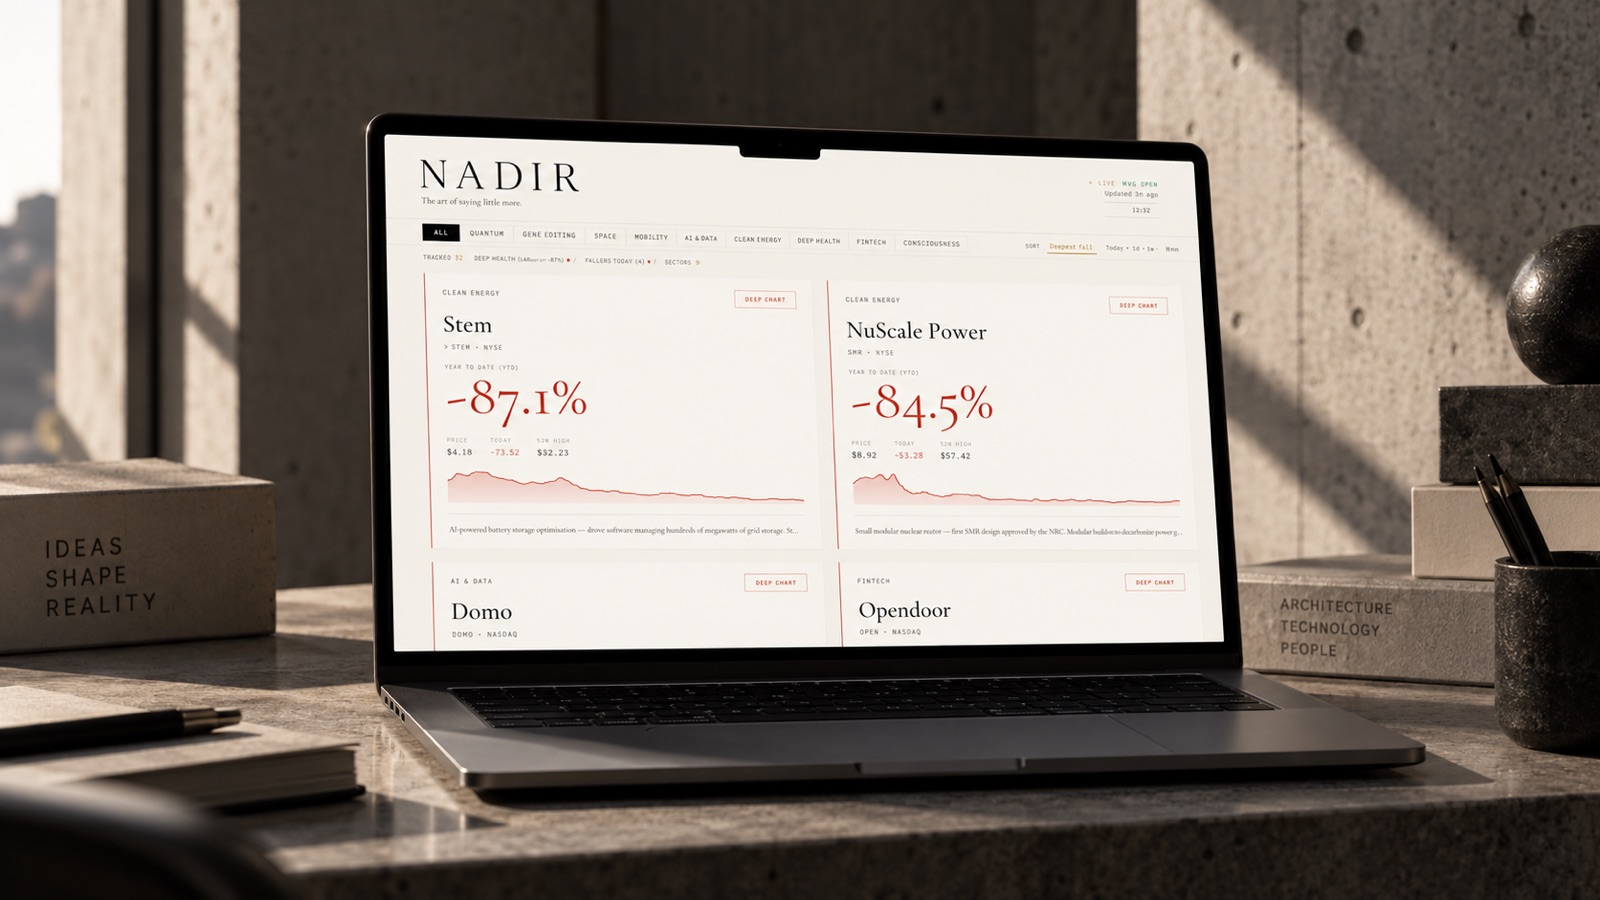
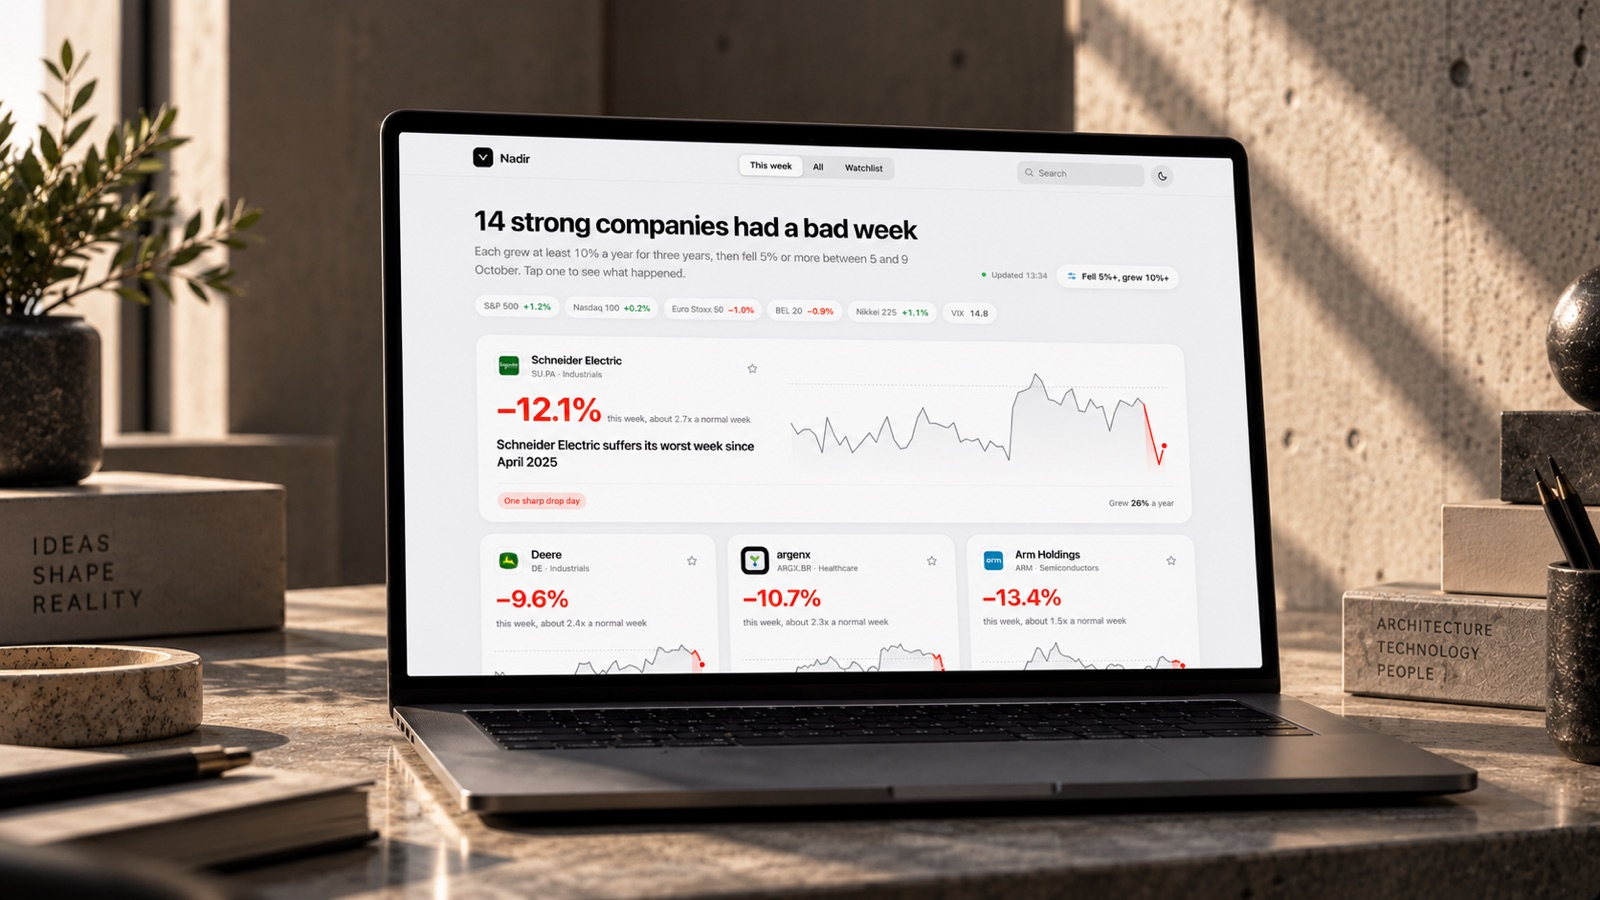
Nadir V2: new cover, screenshots and case copy

diff --git a/work-nadir.html b/work-nadir.html
@@ -3,7 +3,7 @@
   <head>
     <meta charset="utf-8" />
     <title>NADIR | Jasper Impens</title>
-    <meta name="description" content="A live dashboard that tracks growth stocks by how far they have fallen from their 52-week high. Nine sectors, sorted by the deepest fall, told with calm typography instead of ticker noise." />
+    <meta name="description" content="A daily check on strong companies that just had a bad week. NADIR judges each stock on its record before the fall, measures the drop against its normal week, and explains in plain words what happened." />
     <meta content="width=device-width, initial-scale=1" name="viewport" />
     <link rel="icon" type="image/png" href="assets/images/favicon.png" />
     <link rel="apple-touch-icon" href="assets/images/apple-touch-icon.png" />
@@ -31,23 +31,23 @@
               <a class="pj-back" href="work.html"><svg width="14" height="14" viewBox="0 0 20 20" fill="none" xmlns="http://www.w3.org/2000/svg" aria-hidden="true"><path d="M8.125 14.375L3.75 9.93818L8.125 5.625M3.75 9.93818H17.5" stroke="currentColor" stroke-width="1.5"></path></svg><span class="txt txt-font-mono txt-12">All work</span></a>
               <div>
                 <h1 class="pj-h1" id="pj-title"><span class="wk-h1-line"><span>NADIR</span></span></h1>
-                <p class="pj-quote">&ldquo;The art of buying fallen giants.&rdquo;</p>
+                <p class="pj-quote">&ldquo;Good companies, bad weeks.&rdquo;</p>
               </div>
             </div>
             <div class="pj-hero-facts">
-              <dl class="pj-facts"><div class="pj-fact"><dt class="txt txt-font-mono txt-12">Type</dt><dd>Platform</dd></div><div class="pj-fact"><dt class="txt txt-font-mono txt-12">Sector</dt><dd>Stock markets</dd></div><div class="pj-fact"><dt class="txt txt-font-mono txt-12">Built with</dt><dd>HTML, CSS and JavaScript</dd></div><div class="pj-fact"><dt class="txt txt-font-mono txt-12">Role</dt><dd>Design and development</dd></div></dl>
+              <dl class="pj-facts"><div class="pj-fact"><dt class="txt txt-font-mono txt-12">Type</dt><dd>Platform</dd></div><div class="pj-fact"><dt class="txt txt-font-mono txt-12">Sector</dt><dd>Stock markets</dd></div><div class="pj-fact"><dt class="txt txt-font-mono txt-12">Built with</dt><dd>HTML, CSS, JavaScript and Node</dd></div><div class="pj-fact"><dt class="txt txt-font-mono txt-12">Role</dt><dd>Design and development</dd></div></dl>
               <a class="pj-visit" href="https://nadirstocks.netlify.app/" target="_blank" rel="noopener"><span>Visit the live site</span><span class="pj-visit-ic" aria-hidden="true"><svg width="100%" viewBox="0 0 20 20" fill="none" xmlns="http://www.w3.org/2000/svg" aria-hidden="true"><path d="M11.875 14.375L16.25 9.93818L11.875 5.625M16.25 9.93818H2.5" stroke="currentColor" stroke-width="1.5"></path></svg></span></a>
             </div>
           </section>
 
-          <figure class="pj-cover"><img src="assets/work/cover-nadir.jpg" alt="NADIR stock dashboard shown on a laptop in a concrete studio" /></figure>
+          <figure class="pj-cover"><img src="assets/work/cover-nadir.jpg" alt="NADIR dashboard on a laptop in a sunlit concrete studio" /></figure>
 
-          <section class="pj-summary" aria-label="Overview"><p>A live dashboard that tracks growth stocks by how far they have fallen from their 52-week high. Nine sectors, sorted by the deepest fall, told with calm typography instead of ticker noise.</p></section>
+          <section class="pj-summary" aria-label="Overview"><p>A daily check on strong companies that just had a bad week. NADIR judges each stock on its record before the fall, measures the drop against its normal week, and explains in plain words what happened.</p></section>
 
-          <section class="pj-story" aria-label="The project"><div class="pj-story-row"><h2 class="pj-story-h">Challenge</h2><p class="pj-story-p">Every investor knows the question: is this stock simply cheap, or did it fall for a reason? NADIR had to follow dozens of stocks continuously on their distance from the 52-week high, without drowning the user in raw tickers.</p></div><div class="pj-story-row"><h2 class="pj-story-h">Approach</h2><p class="pj-story-p">Live price data grouped by sector: quantum computing, gene editing, space, mobility, AI and data, clean energy, deep health, fintech and semiconductors, sorted by the deepest fall. Every card shows the price, today&#x27;s change and a sparkline of the past year. A detail panel adds a full price chart, the 52-week range and the investment thesis behind each company.</p></div><div class="pj-story-row"><h2 class="pj-story-h">Result</h2><p class="pj-story-p">A quiet, typographic dashboard, not a wall of tickers, that shows at a glance which fallen giants are worth a closer look.</p></div></section>
+          <section class="pj-story" aria-label="The project"><div class="pj-story-row"><h2 class="pj-story-h">Challenge</h2><p class="pj-story-p">Most screeners rank stocks by daily losers or by distance from a high, so a cheap stock and a broken one look the same. The first NADIR also hid everything behind a loading screen, and people left before the data arrived. The new version had to answer three things in under a minute: what fell, how good was it before, and why did it fall.</p></div><div class="pj-story-row"><h2 class="pj-story-h">Approach</h2><p class="pj-story-p">Every stock is judged on its three-year record, frozen before the fall, and the drop is measured against its own normal weekly swing. Both halves feed one Nadir score, so a stock needs a strong record and a real break to rank. The front page reads like a sentence (&ldquo;14 strong companies had a bad week&rdquo;), with one card per company: logo, the fall, a six-month chart with the week in red, and the likely cause. A company sheet adds charts from one week to five years, the story day by day, what happened after earlier falls like this one, and the news from that week.</p></div><div class="pj-story-row"><h2 class="pj-story-h">Result</h2><p class="pj-story-p">A clean, light interface that opens instantly. A small Node server fetches all 196 stocks in about three seconds and streams them in, so the page is never blank: cards fill in as prices arrive. Filters, search, a watchlist, dark mode and keyboard shortcuts make it a quick daily ritual instead of a wall of tickers.</p></div></section>
 
         <section class="pj-shots" aria-label="Screens">
-          <ul class="pj-shots-grid" role="list" data-count="4"><li class="pj-shot"><button type="button" class="pj-shot-btn" data-pj-open aria-label="Enlarge image: NADIR dashboard in dark mode, stocks sorted by deepest fall"><img src="assets/cases/nadir/gallery-dashboard.jpg" alt="NADIR dashboard in dark mode, stocks sorted by deepest fall" loading="lazy" /></button></li><li class="pj-shot"><button type="button" class="pj-shot-btn" data-pj-open aria-label="Enlarge image: NADIR detail panel with a one-year price chart and the 52-week range"><img src="assets/cases/nadir/gallery-detail.jpg" alt="NADIR detail panel with a one-year price chart and the 52-week range" loading="lazy" /></button></li><li class="pj-shot"><button type="button" class="pj-shot-btn" data-pj-open aria-label="Enlarge image: NADIR filtered on the semiconductors sector"><img src="assets/cases/nadir/gallery-sector.jpg" alt="NADIR filtered on the semiconductors sector" loading="lazy" /></button></li><li class="pj-shot"><button type="button" class="pj-shot-btn" data-pj-open aria-label="Enlarge image: NADIR dashboard overview"><img src="assets/cases/nadir/screen-overview.jpg" alt="NADIR dashboard overview" loading="lazy" /></button></li></ul>
+          <ul class="pj-shots-grid" role="list" data-count="4"><li class="pj-shot"><button type="button" class="pj-shot-btn" data-pj-open aria-label="Enlarge image: NADIR front page: fourteen strong companies that had a bad week, led by a featured pick"><img src="assets/cases/nadir/v2-dashboard.jpg" alt="NADIR front page: fourteen strong companies that had a bad week, led by a featured pick" loading="lazy" /></button></li><li class="pj-shot"><button type="button" class="pj-shot-btn" data-pj-open aria-label="Enlarge image: NADIR company sheet with price, a three-month chart with this week marked, and what happened"><img src="assets/cases/nadir/v2-company.jpg" alt="NADIR company sheet with price, a three-month chart with this week marked, and what happened" loading="lazy" /></button></li><li class="pj-shot"><button type="button" class="pj-shot-btn" data-pj-open aria-label="Enlarge image: NADIR filters for the size of the fall, growth record, region, sector and sort"><img src="assets/cases/nadir/v2-filters.jpg" alt="NADIR filters for the size of the fall, growth record, region, sector and sort" loading="lazy" /></button></li><li class="pj-shot"><button type="button" class="pj-shot-btn" data-pj-open aria-label="Enlarge image: NADIR in dark mode, a grid of company cards with six-month charts and the likely cause"><img src="assets/cases/nadir/v2-dark.jpg" alt="NADIR in dark mode, a grid of company cards with six-month charts and the likely cause" loading="lazy" /></button></li></ul>
         </section>
           <nav class="pj-next" aria-label="Next project">
             <a class="pj-next-link" href="work-dlta.html">

diff --git a/work.html b/work.html
@@ -132,7 +132,7 @@
             <li class="wk-card" data-type="platforms">
               <a class="wk-link" href="work-nadir.html" aria-label="NADIR, view project">
                 <div class="wk-media">
-                  <img src="assets/work/cover-nadir.jpg" alt="NADIR stock dashboard shown on a laptop in a concrete studio" loading="lazy" />
+                  <img src="assets/work/cover-nadir.jpg" alt="NADIR dashboard on a laptop in a sunlit concrete studio" loading="lazy" />
                   <i class="wk-corner tl"></i><i class="wk-corner tr"></i><i class="wk-corner bl"></i><i class="wk-corner br"></i>
                 </div>
                 <div class="wk-meta">
@@ -140,8 +140,8 @@
                     <h2 class="wk-name">NADIR</h2>
                     <span class="wk-arrow" aria-hidden="true"><svg width="100%" viewBox="0 0 20 20" fill="none" xmlns="http://www.w3.org/2000/svg" aria-hidden="true"><path d="M11.875 14.375L16.25 9.93818L11.875 5.625M16.25 9.93818H2.5" stroke="currentColor" stroke-width="1.5"></path></svg></span>
                   </div>
-                  <p class="wk-quote">&ldquo;The art of buying fallen giants.&rdquo;</p>
-                  <p class="txt txt-14 wk-desc">A live dashboard that tracks growth stocks by how far they have fallen from their 52-week high. Nine sectors, sorted by the deepest fall, told with calm typography instead of ticker noise.</p>
+                  <p class="wk-quote">&ldquo;Good companies, bad weeks.&rdquo;</p>
+                  <p class="txt txt-14 wk-desc">A daily check on strong companies that just had a bad week. NADIR judges each stock on its record before the fall, measures the drop against its normal week, and explains in plain words what happened.</p>
                   <ul class="wk-tags" role="list"><li>Platform</li><li>Stock markets</li><li>Live data</li></ul>
                 </div>
               </a>
